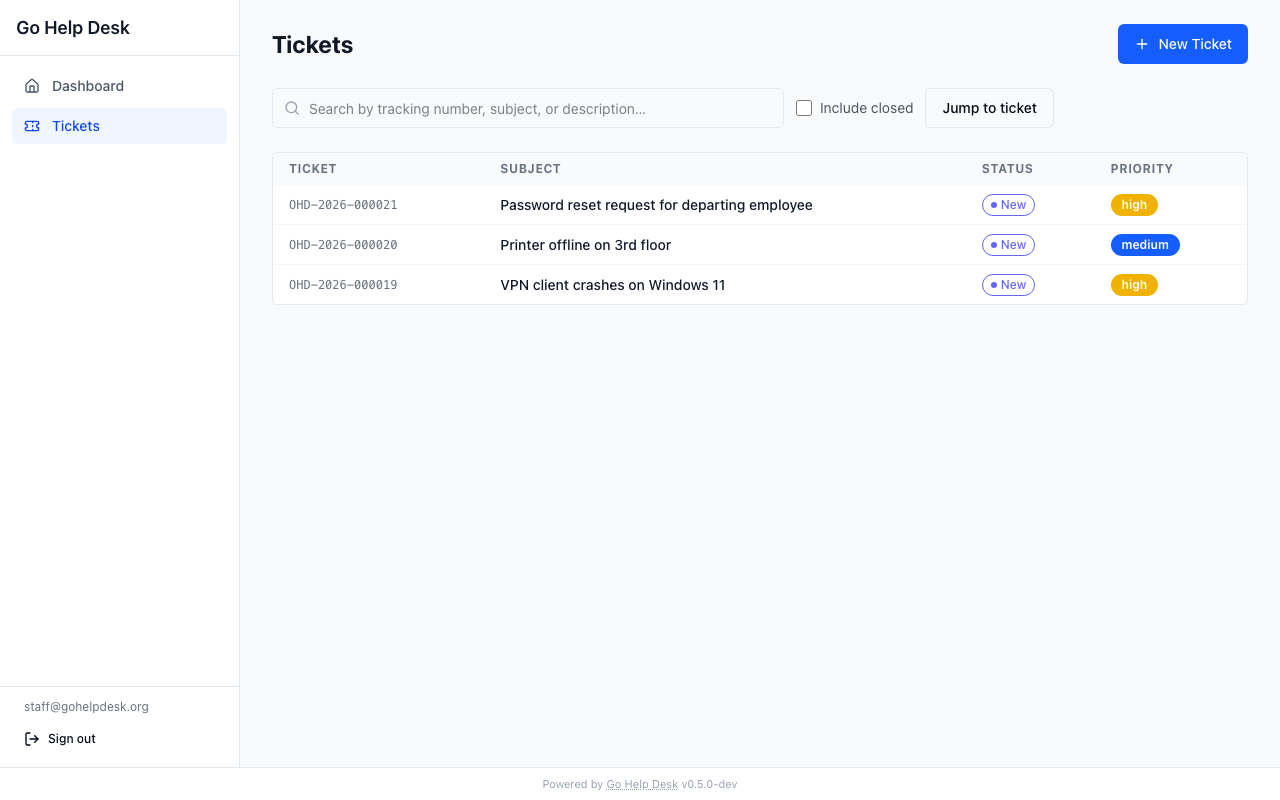
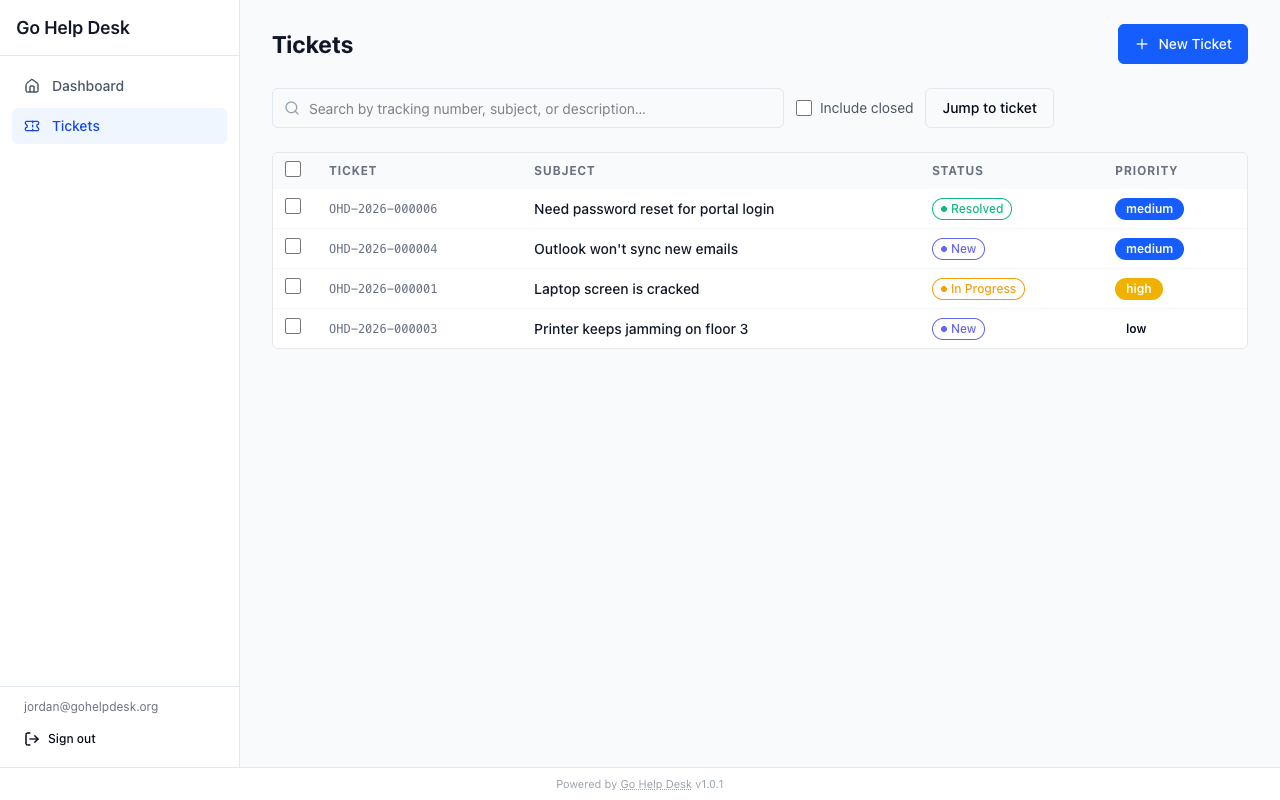
Add canned responses to website: docs, roadmap, and screenshots
- docs/admin-guide.html: new Canned Responses section (scope model,
  reply-composer usage, edit/delete rules) + sidebar nav link.
- docs/tickets.html: note on inserting canned responses under Replies.
- docs/api.html: document the admin CRUD endpoints and the ticket-scoped
  GET .../canned-responses endpoint.
- index.html: roadmap now highlights v2 as current with Canned responses
  checked off (v1 marked Shipped); added a Canned Responses feature card;
  added two new gallery screenshots (admin management page, reply-composer
  picker in use).
- Refreshed all 9 existing screenshots against current app state and
  seeded demo data, plus the 2 new ones (11 total).

diff --git a/index.html b/index.html
@@ -125,6 +125,14 @@ docker compose up -d      <span style="color:#22c55e"># that's it</span></code><
         <img src="screenshots/07-admin-users.png" alt="User management" loading="lazy" />
         <span>User management</span>
       </button>
+      <button class="scr-thumb" data-src="screenshots/10-canned-responses-admin.png" data-caption="Canned responses — reusable reply templates scoped globally, by category, or by category and type">
+        <img src="screenshots/10-canned-responses-admin.png" alt="Canned responses admin" loading="lazy" />
+        <span>Canned responses</span>
+      </button>
+      <button class="scr-thumb" data-src="screenshots/11-canned-response-picker.png" data-caption="Insert a canned response into a reply with one click, filtered to what's in scope for the ticket">
+        <img src="screenshots/11-canned-response-picker.png" alt="Canned response picker in the reply composer" loading="lazy" />
+        <span>Reply composer</span>
+      </button>
     </div>
 
     <!-- Lightbox -->
@@ -266,6 +274,14 @@ docker compose up -d      <span style="color:#22c55e"># that's it</span></code><
         <p>Extend behavior with sandboxed WASM plugins. Hook into ticket events, add UI panels, and integrate external systems.</p>
       </div>
 
+      <div class="feature-card">
+        <div class="feature-icon">
+          <svg width="20" height="20" fill="none" stroke="currentColor" stroke-width="2" stroke-linecap="round" stroke-linejoin="round" viewBox="0 0 24 24"><rect x="9" y="9" width="13" height="13" rx="2" ry="2"/><path d="M5 15H4a2 2 0 0 1-2-2V4a2 2 0 0 1 2-2h9a2 2 0 0 1 2 2v1"/></svg>
+        </div>
+        <h3>Canned Responses</h3>
+        <p>Reusable reply templates scoped globally, by category, or by category and type — inserted into any reply with one click.</p>
+      </div>
+
     </div>
   </div>
 </section>
@@ -335,8 +351,8 @@ docker compose up -d      <span style="color:#22c55e"># that's it</span></code><
     </div>
     <div style="display: grid; grid-template-columns: repeat(4,1fr); gap: 1rem;">
 
-      <div style="padding: 1.5rem; border: 2px solid var(--blue); border-radius: 10px; background: var(--blue-light);">
-        <div style="font-size: 0.75rem; font-weight: 700; text-transform: uppercase; letter-spacing: 0.08em; color: var(--blue); margin-bottom: 0.5rem;">v1 · Now</div>
+      <div style="padding: 1.5rem; border: 1px solid var(--border); border-radius: 10px;">
+        <div style="font-size: 0.75rem; font-weight: 700; text-transform: uppercase; letter-spacing: 0.08em; color: var(--muted); margin-bottom: 0.5rem;">v1 · Shipped</div>
         <h4 style="margin-bottom: 0.75rem;">Core</h4>
         <ul style="list-style:none; font-size: 0.875rem; color: var(--ink-2); display: flex; flex-direction: column; gap: 0.3rem;">
           <li>✓ CTI ticketing</li>
@@ -351,12 +367,12 @@ docker compose up -d      <span style="color:#22c55e"># that's it</span></code><
         </ul>
       </div>
 
-      <div style="padding: 1.5rem; border: 1px solid var(--border); border-radius: 10px;">
-        <div style="font-size: 0.75rem; font-weight: 700; text-transform: uppercase; letter-spacing: 0.08em; color: var(--muted); margin-bottom: 0.5rem;">v2</div>
+      <div style="padding: 1.5rem; border: 2px solid var(--blue); border-radius: 10px; background: var(--blue-light);">
+        <div style="font-size: 0.75rem; font-weight: 700; text-transform: uppercase; letter-spacing: 0.08em; color: var(--blue); margin-bottom: 0.5rem;">v2 · Now</div>
         <h4 style="margin-bottom: 0.75rem;">Productivity</h4>
         <ul style="list-style:none; font-size: 0.875rem; color: var(--ink-2); display: flex; flex-direction: column; gap: 0.3rem;">
+          <li>✓ Canned responses</li>
           <li>Reporting</li>
-          <li>Canned responses</li>
         </ul>
       </div>
 

diff --git a/docs/admin-guide.html b/docs/admin-guide.html
@@ -72,6 +72,7 @@
       <li><a href="#admin-auto-assign">Auto-assignment</a></li>
       <li><a href="#admin-custom-fields">Custom Fields</a></li>
       <li><a href="#admin-tags">Tags</a></li>
+      <li><a href="#admin-canned-responses">Canned Responses</a></li>
       <li><a href="#admin-statuses">Ticket Statuses</a></li>
       <li><a href="#admin-sla">SLA Policies</a></li>
       <li><a href="#admin-email-tpl">Email Templates</a></li>
@@ -372,6 +373,25 @@ Facilities
   </tbody>
 </table>
 
+
+<h2 id="admin-canned-responses">Canned responses</h2>
+
+<p>Canned responses are reusable reply templates staff insert into ticket replies with one click, so common acknowledgements, fixes, and closure messages don't have to be retyped. They're managed from <em>Admin → Canned Responses</em>.</p>
+
+<h3>Scope</h3>
+<p>Each canned response has a name, a body, and a scope:</p>
+<ul>
+  <li><strong>Global</strong> — leave both Category and Type blank. Available on every ticket.</li>
+  <li><strong>Category-scoped</strong> — set a Category, leave Type blank. Available on any ticket in that category.</li>
+  <li><strong>Category + Type-scoped</strong> — set both. Available only on tickets matching that exact category and type.</li>
+</ul>
+<p>A response can't be scoped to a type without also naming its category — the Type field stays disabled until a Category is chosen.</p>
+
+<h3>Using them in a reply</h3>
+<p>When composing a reply, staff and admins see an <em>Insert canned response</em> button above the reply box. It opens a searchable picker showing only the responses in scope for that ticket (global, plus any matching its category and type). Selecting one splices the body into the reply at the cursor position — the inserted text is fully editable before sending.</p>
+
+<h3>Editing and deleting</h3>
+<p>Only admins can create, edit, or delete canned responses. Deleting one is permanent (there's no deactivate/restore step like Tags) — since the body is copied into a reply at the moment it's inserted, removing the template afterward never changes replies that already used it. Deleting a category or type cascades to any canned responses scoped to it.</p>
 
 <h2 id="admin-statuses">Ticket statuses</h2>
 

diff --git a/docs/api.html b/docs/api.html
@@ -313,6 +313,11 @@
   <p>Soft-delete a reply. The reply is removed from normal views but preserved in the audit log. Users can only delete their own replies within 15 minutes. Staff and admins can delete any reply.</p>
 </div>
 
+<div class="endpoint">
+  <div class="endpoint-title"><span class="tag tag-get">GET</span>/api/tickets/:id/canned-responses</div>
+  <p>List the canned responses in scope for this ticket — global templates, plus any scoped to the ticket's category, or category and type. Requires Staff or Admin role; returns 403 for a User or guest, since only staff compose replies with canned responses.</p>
+</div>
+
 
 <h2 id="api-links">Ticket links</h2>
 
@@ -548,6 +553,17 @@
     <tr><td><span class="tag tag-post">POST</span></td><td><code>/api/admin/types/:id/items</code></td><td>Create an item under a type.</td></tr>
     <tr><td><span class="tag tag-patch">PATCH</span></td><td><code>/api/admin/items/:id</code></td><td>Update an item.</td></tr>
     <tr><td><span class="tag tag-delete">DELETE</span></td><td><code>/api/admin/items/:id</code></td><td>Delete an item.</td></tr>
+  </tbody>
+</table>
+
+<h3>Canned responses</h3>
+<table>
+  <thead><tr><th>Method</th><th>Path</th><th>Description</th></tr></thead>
+  <tbody>
+    <tr><td><span class="tag tag-get">GET</span></td><td><code>/api/admin/canned-responses</code></td><td>List all canned responses.</td></tr>
+    <tr><td><span class="tag tag-post">POST</span></td><td><code>/api/admin/canned-responses</code></td><td>Create one. Body: <code>{ "name", "body", "category_id": null, "type_id": null, "sort_order": 0 }</code>. Both scope fields are optional; <code>type_id</code> requires <code>category_id</code> to also be set.</td></tr>
+    <tr><td><span class="tag tag-patch">PATCH</span></td><td><code>/api/admin/canned-responses/:id</code></td><td>Update name, body, scope, or sort order. Replaces the full record — send all fields.</td></tr>
+    <tr><td><span class="tag tag-delete">DELETE</span></td><td><code>/api/admin/canned-responses/:id</code></td><td>Permanently delete. There's no soft-delete — the body was already copied into any replies that used it.</td></tr>
   </tbody>
 </table>
 

diff --git a/docs/tickets.html b/docs/tickets.html
@@ -228,6 +228,9 @@
 <h3>Editing and deleting replies</h3>
 <p>Users can edit or delete their own replies within 15 minutes of posting. Staff and admins can edit any reply at any time. Deletions are soft — a "deleted reply" placeholder is shown to staff. The original content is preserved in the audit log.</p>
 
+<h3>Inserting canned responses</h3>
+<p>Staff and admins see an <em>Insert canned response</em> button above the reply box. It opens a searchable picker limited to the responses in scope for that ticket — global templates, plus any scoped to the ticket's category or category and type. Selecting one splices the template's body into the reply at the current cursor position (or appends it, if the box is empty), and the inserted text stays fully editable before sending. Managing the templates themselves is an admin task — see <a href="admin-guide.html#admin-canned-responses">Canned Responses</a> in the Admin Guide.</p>
+
 
 <h2 id="tickets-links">Linked tickets</h2>
 
